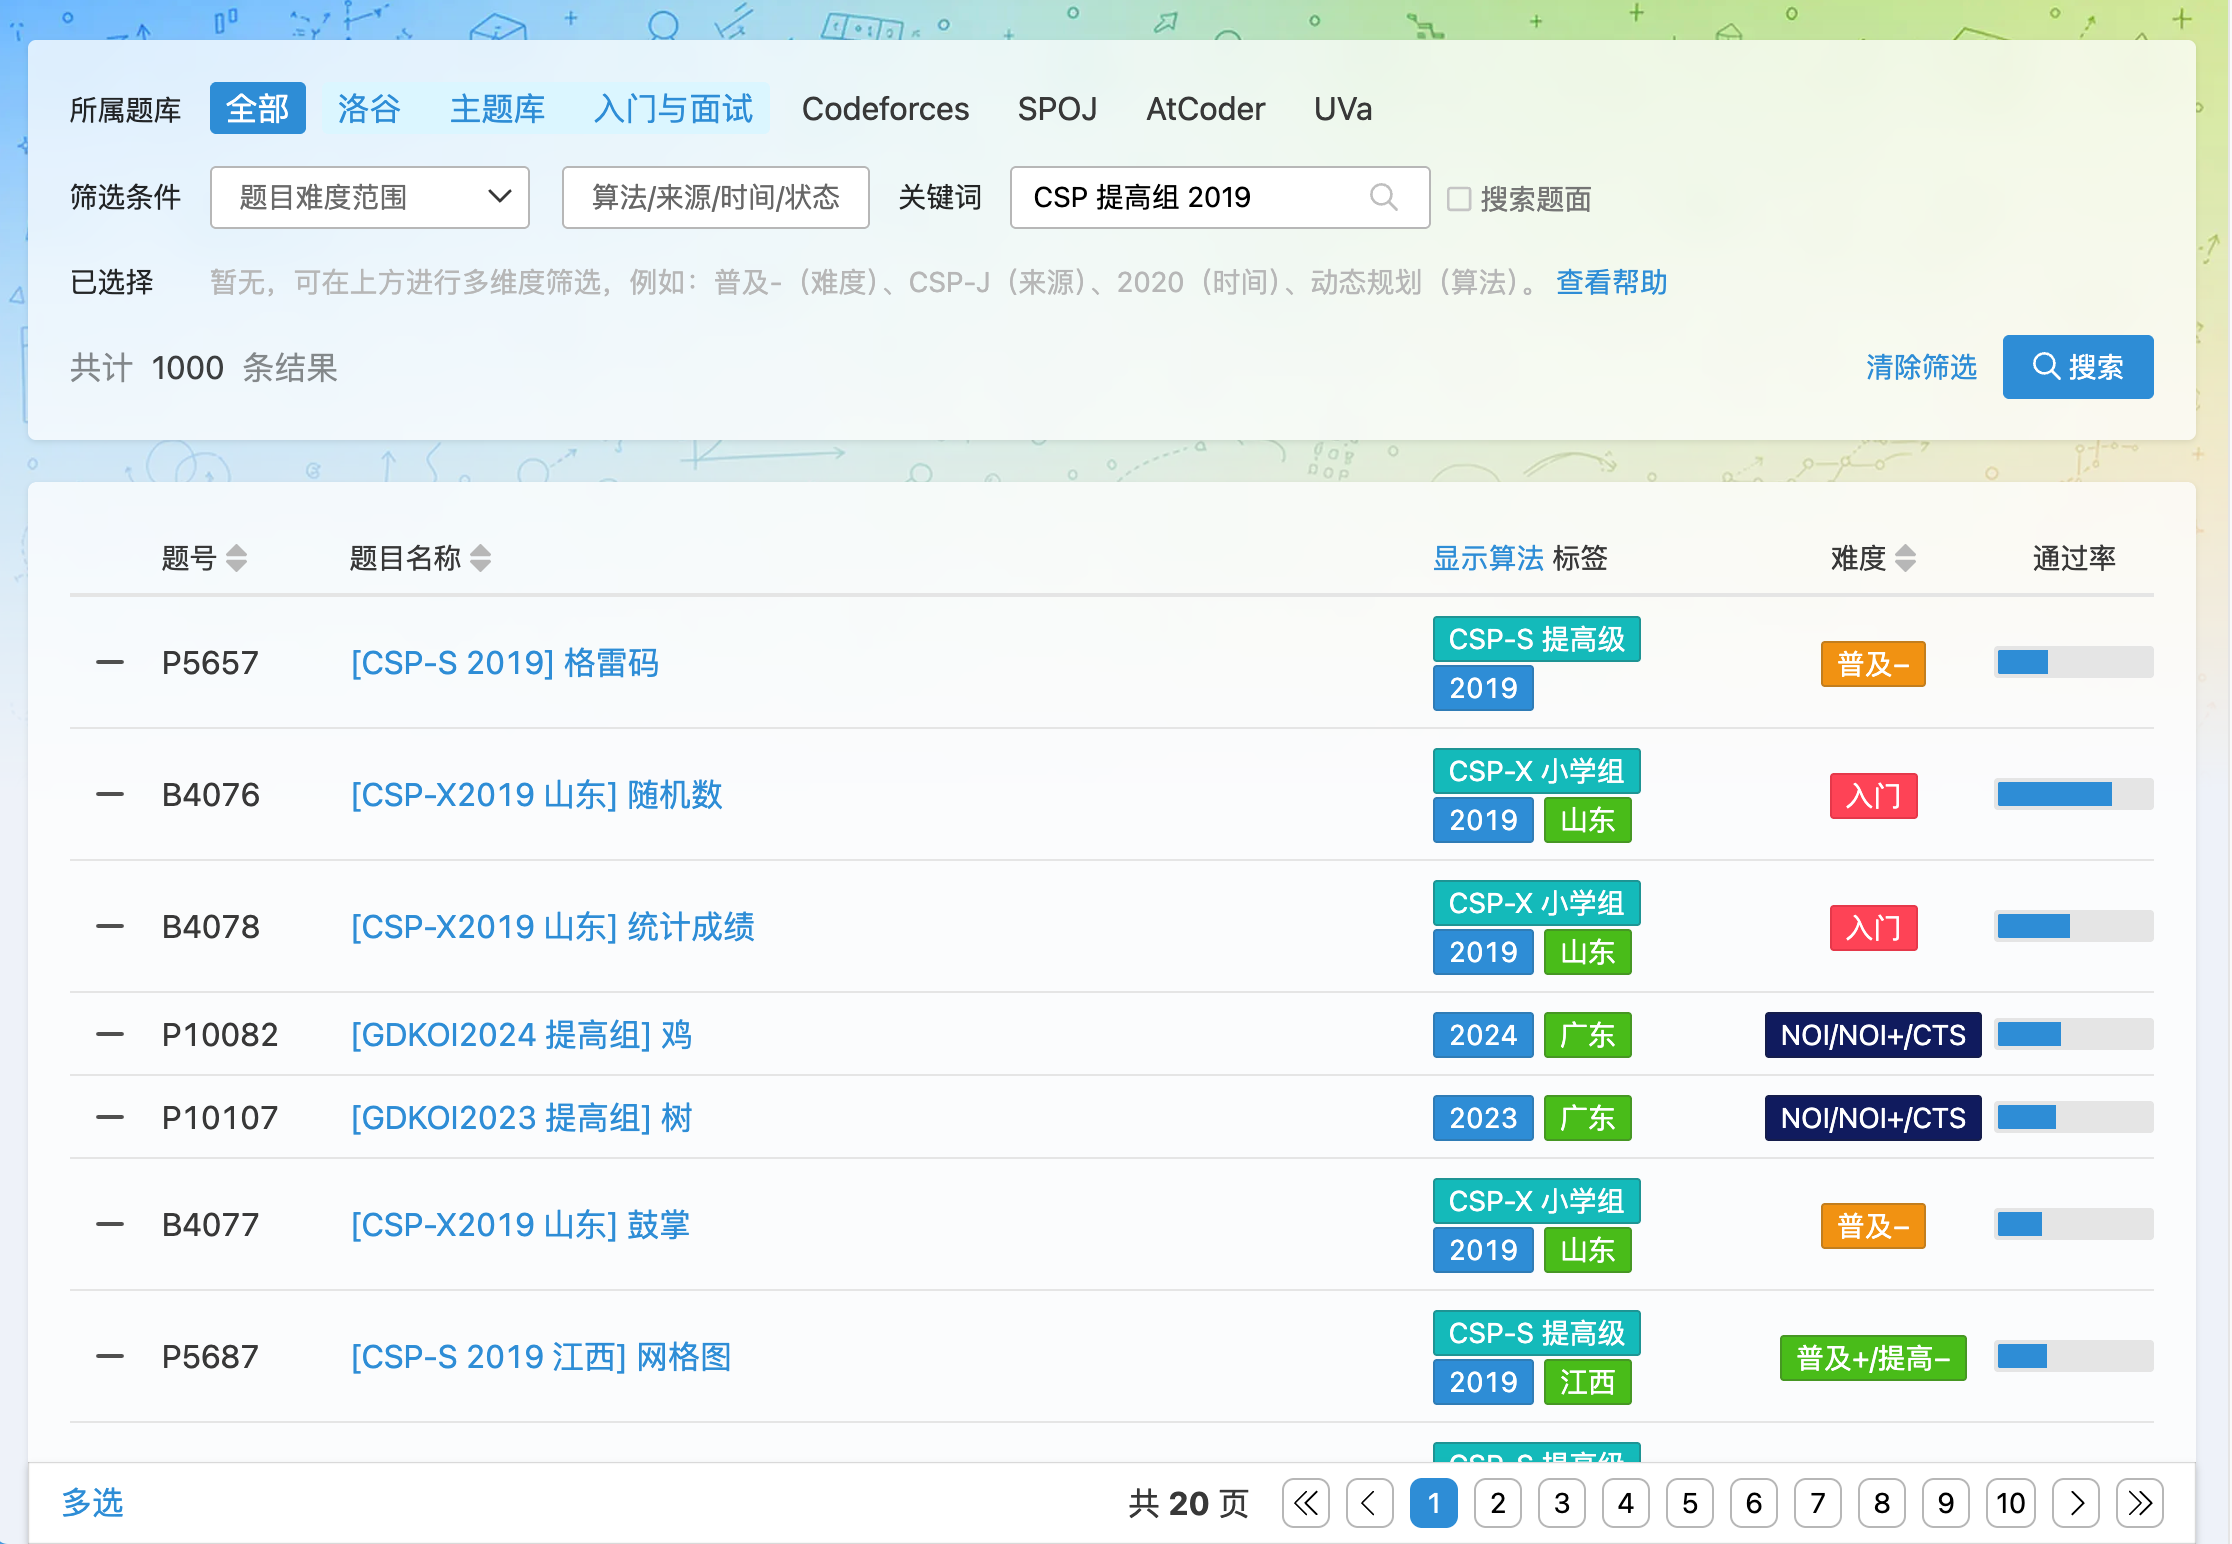
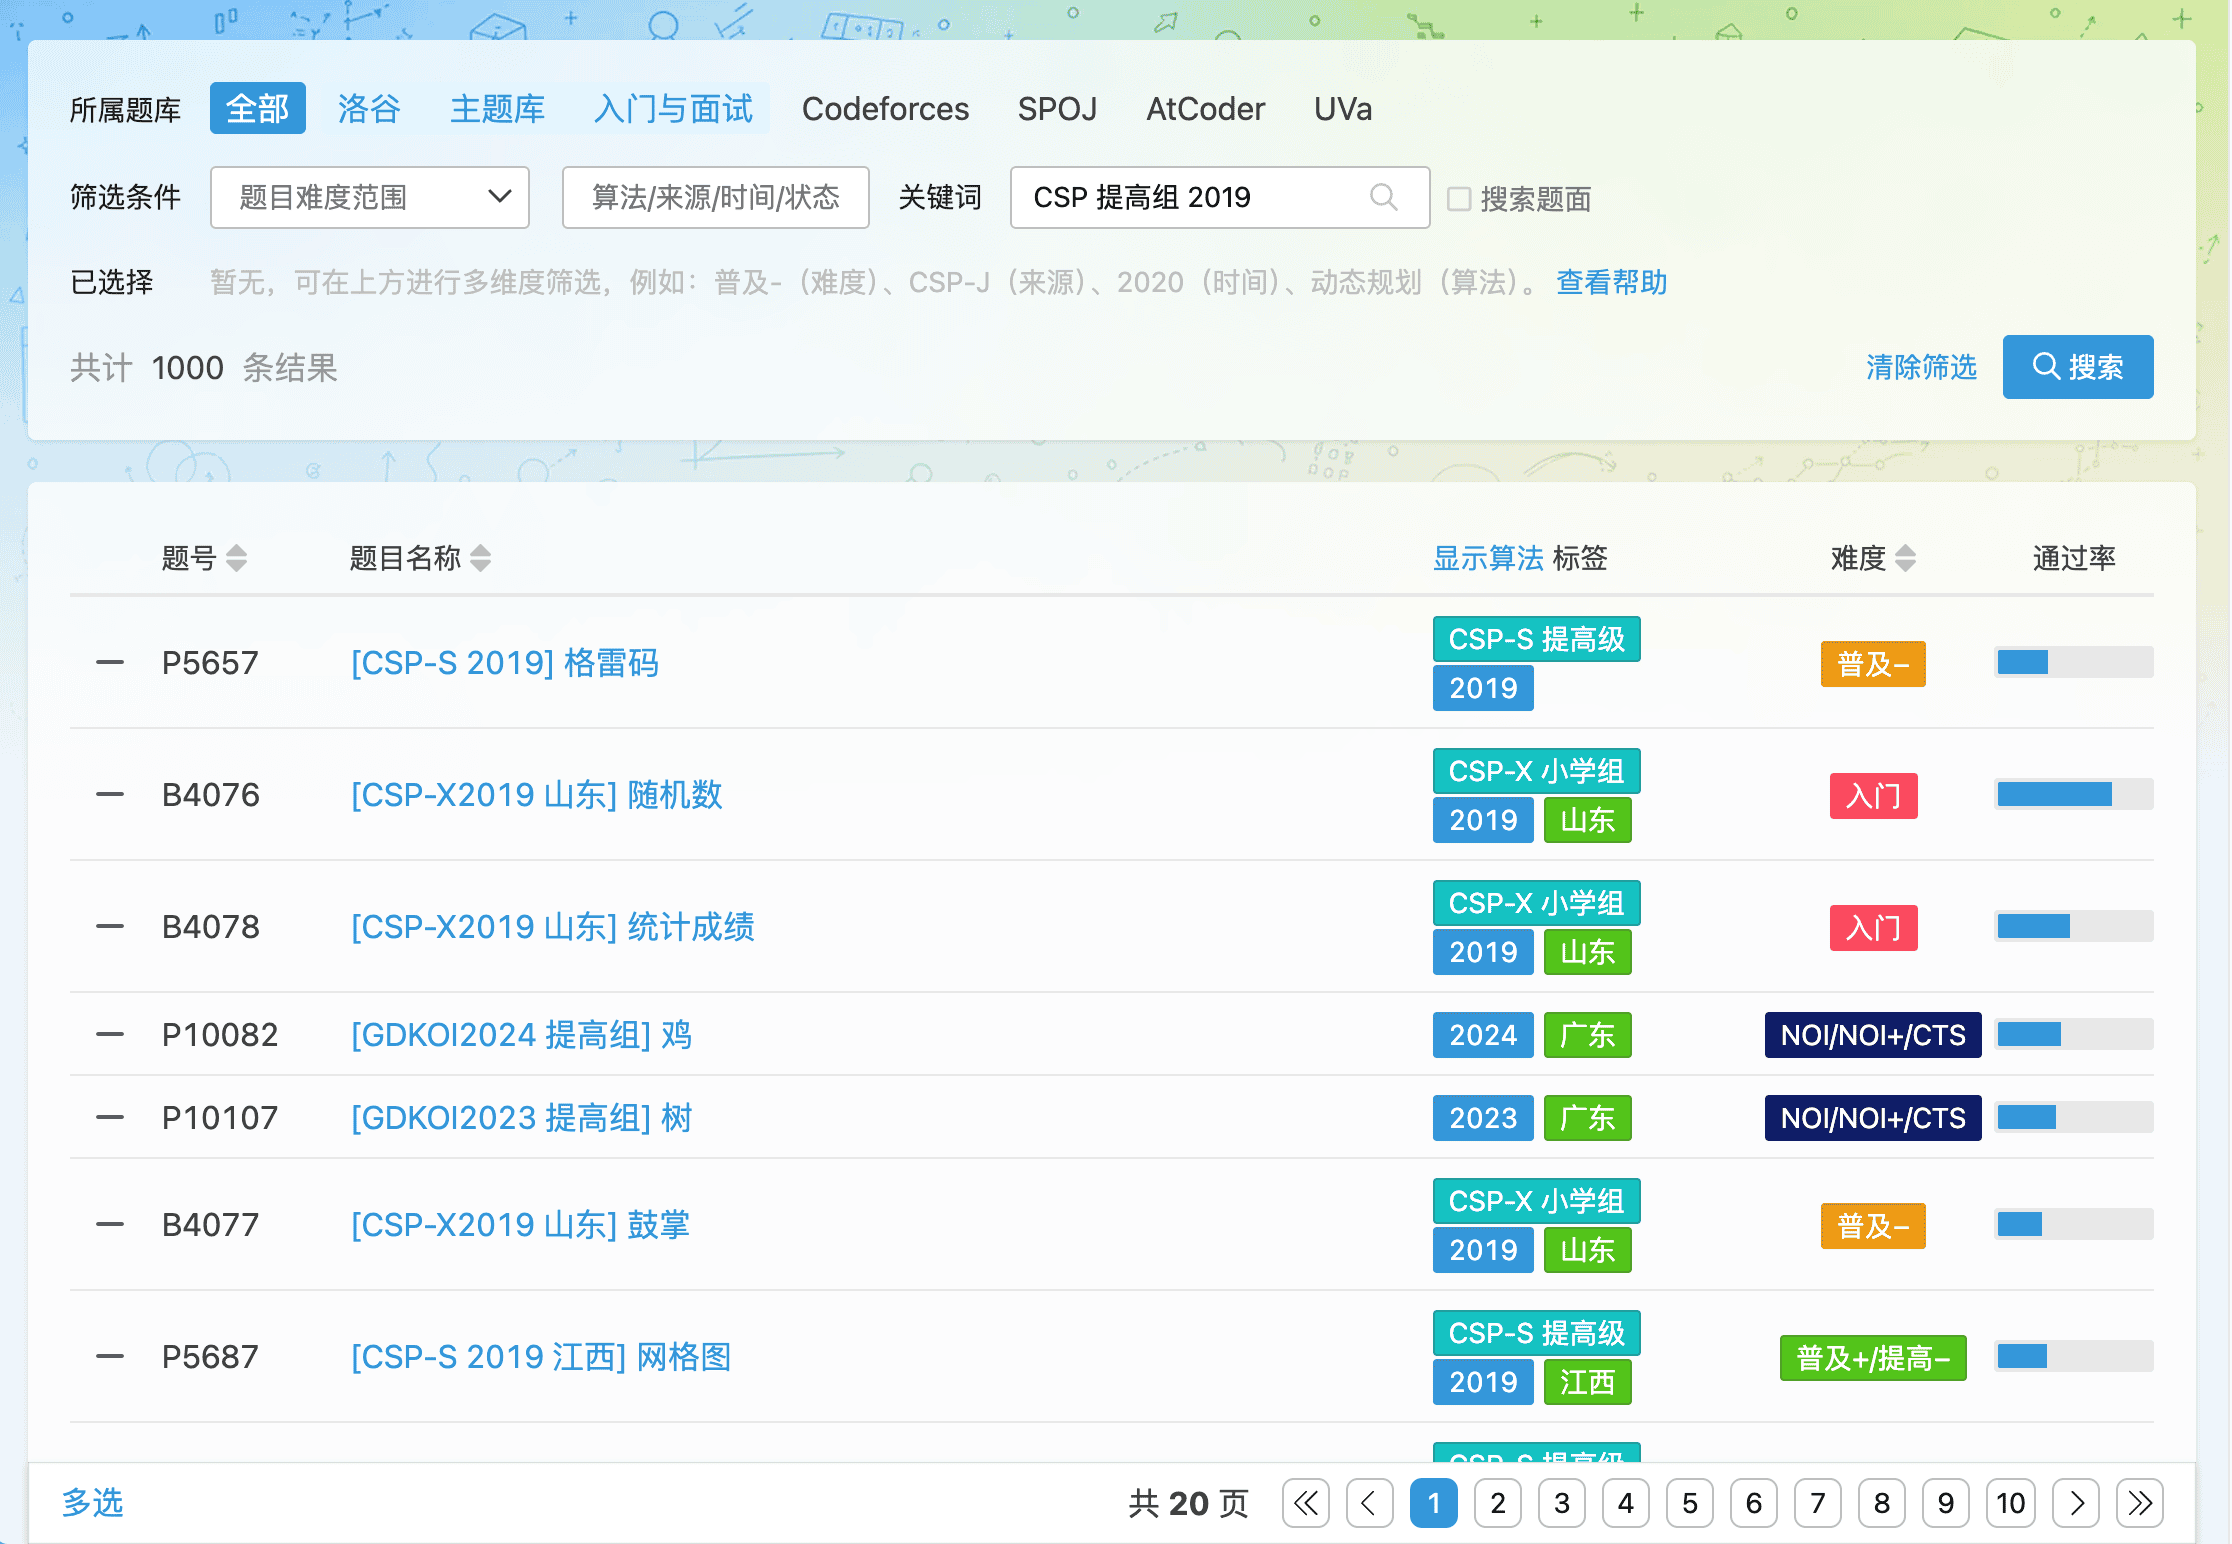
压缩图片大小、调整文件名

diff --git a/docs/manual/luogu/problem/search.md b/docs/manual/luogu/problem/search.md
@@ -12,14 +12,12 @@ sidebar_position: 2
 
 我们最想要的题目并没有出现在最前面，而且一些不相关的题目也混入其中。
 
-![image-20230405114742008](_image/search-2.png)
-
 所以这时候建议使用标签选择器（点击【筛选算法/来源/时间】）来直接指定来源【CSP S 提高级】和时间【2019】。  
 
-![指定标签](_image/search-3.png)
+![指定标签](_image/search-2.png)
 
 这样搜索结果就只有有这两个标签的题目，并且按照题号顺序排好了。
 
-![使用标签的搜索结果](_image/search-4.png)
+![使用标签的搜索结果](_image/search-3.png)
 
 除此之外，您还可以使用算法来筛选题目，来找到只包含该算法的题目。再配合上难度筛选，就可以方便的找到适合自己的题目了。
